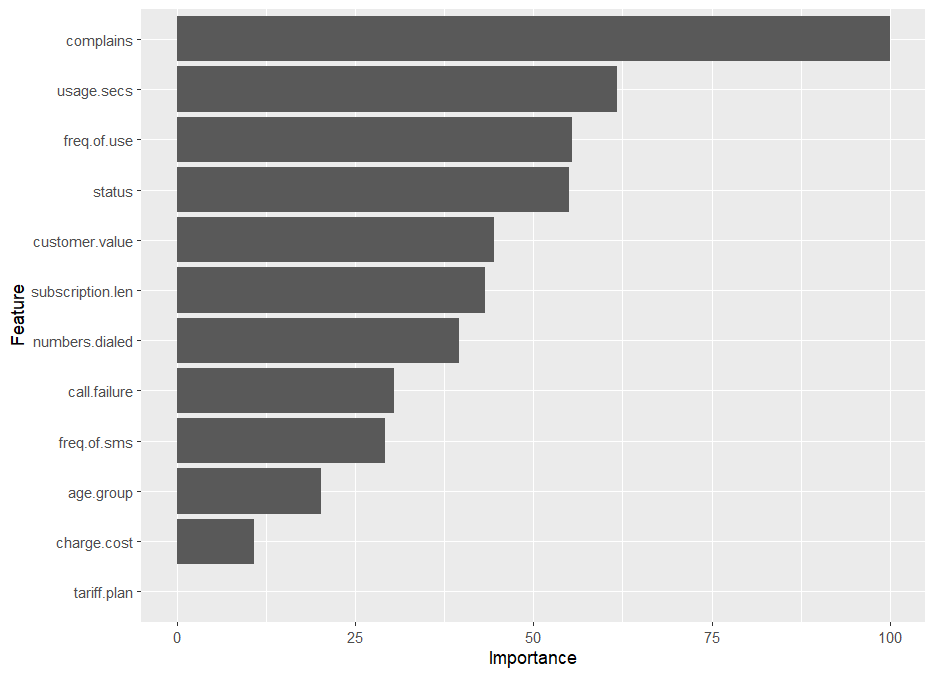
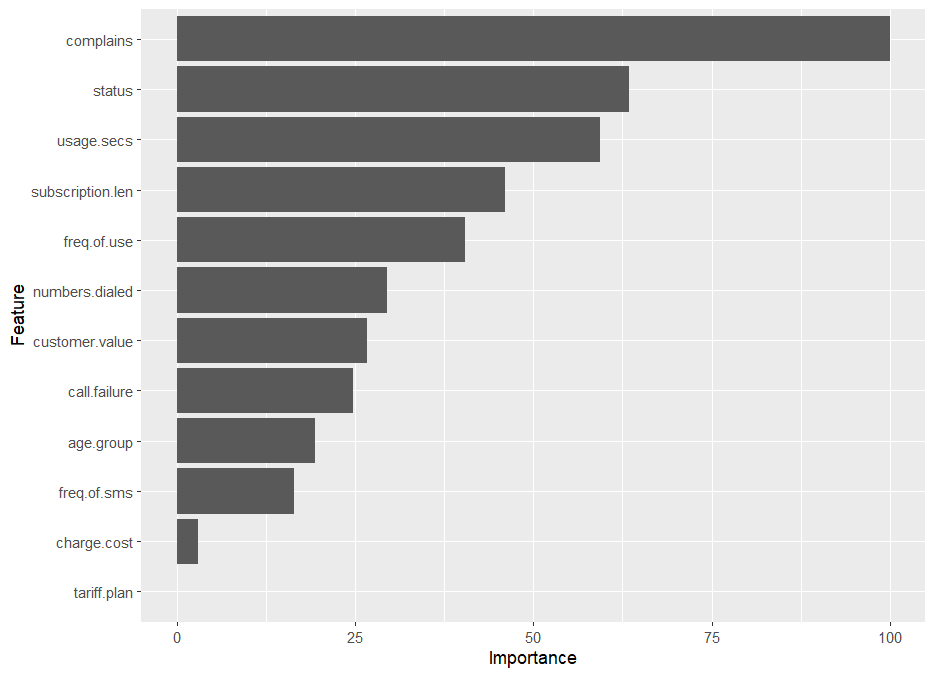
fourth commit - possibly final

diff --git a/README.md b/README.md
@@ -1,2 +1,147 @@
-# predicting-customer-churn
-This project is my first dive into the R programming language. I did some EDA and analysis on the possible reasons for customer churn.
+# Predicting-customer-churn project
+
+This project is my first dive into the R programming language. I did some EDA and analysis on the possible reasons for customer churn using dataset obtained from the [UCI website](https://archive.ics.uci.edu/dataset/563/iranian+churn+dataset). The dataset was obtained from an Iranian telecom company over the space of 12 months. All of the columns were collected over nine months excluding the target feature. See the hyperlink above for more information and background on the dataset.
+
+## Project aims/goals
+
+The aims of this project are as follows:
+
+1. Carry out extensive EDA on the dataset and extract business insights.
+2. Answer some premeditated questions regarding the data through the EDA process.
+3. Train and optimize an ML model for predicting customer churn.
+4. Identify the main features responsible for customer churn.
+
+## Data cleaning and EDA (PART 1)
+
+The dataset contains 3,150 rows and 13 features. The description of the features are presented below:
+- Call Failures: number of call failures
+- Complains: binary (0: No complaint, 1: complaint)
+- Subscription Length: total months of subscription
+- Charge Amount: Ordinal attribute (0: lowest amount, 9: highest amount)
+- Seconds of Use: total seconds of calls
+- Frequency of use: total number of calls
+- Frequency of SMS: total number of text messages
+- Distinct Called Numbers: total number of distinct phone calls 
+- Age Group: ordinal attribute (1: younger age, 5: older age)
+- Tariff Plan: binary (1: Pay as you go, 2: contractual)
+- Status: binary (1: active, 2: non-active)
+- Churn: binary (1: churn, 0: non-churn) - Class label
+- Customer Value: The calculated value of customer
+
+In the loaded dataframe, some of these features are categorical features disguised as numerical features. Two dataframes were created to distinguish both and used depending on the task. Data cleaning was carried out by renaming some of the column names for simplicity and compactness. Three columns (`[FN]`, `[FP]` and `[Age]`) were dropped because there was no information about them. The `[Age]` column was a categorical feature (instead of being a continuous variable). The data set had no missing values. In the `[data_exploration_analysis]` script, comprehensive EDA process and some statistical analysis were carried out. Using the data, I was able to find answers to the following questions:
+
+1. What could be the main causes of customer churn?
+2. What is the time interval for customers to churn?
+3. From insights generated from the EDA process, is it possible to discover how customers can be retained?
+4. What recommendations observed from the EDA process can avoid customer churn?
+5. What other insights and interesting information can be observed from the data?
+
+Bar charts were used to visualize the categorical features. Histograms were used to visualize the numerical features. Box plots were used to visualize and observe outliers. Scatter plots were used to observe the relationship between two numerical features and the target feature. Violin plots were used to observe the distribution of some numerical and categorical features. After an extensive and thorough analysis, the following were the answers obtained through the EDA process:
+
+1. What could be the main causes of customer churn?
+
+    Answer: The data points to three main features as the cause of customer churn:
+    - Complains (customers who have complains)
+    - Status (non-active customers have the highest churn) It seems mostly likely that the customer complains are not attended to. Many of customers that had complains churned. Also the most majority of customers churned because they were no longer active on the platform.
+    - It was also observed that customers on the "pay-as-you-go" tariff plan churned the most compared to those on a contract.
+
+<p float="left">
+    <img src="outputs/eda_bar_1.png" width="300" />
+    <img src="outputs/eda_bar_2.png" width="300" /> 
+    <img src="outputs/eda_bar_4.png" width="300" />
+</p>
+
+2. What is the time interval for customers to churn?
+
+    Answer: Customers begin to churn right from the time they subscribe to the network. The highest churn rate (almost 300 customers) was between 30 and 40 (units of measurement unknown).
+
+<img src="outputs/hist.png"
+     style="float: center; width: 500px; height: 400px;" />
+
+3. From insights generated from the EDA process, is it possible to discover how customers can be retained?
+
+    Answer: A major issue seems to be that the network is not attending to the complains of the customers. A large number of customers churn due to this.
+4. What recommendations observed from the EDA process can avoid customer churn?
+
+    Answer: The data reveals that most of the customers that churn are subscribed to the "pay-as-you-go" tariff plan. Probably make the contractual plan the gold standard by making the requirements for the "pay-as-you-go" plan very difficult. Or as an alternative, offer more incentives to those on the contract plan. Customers on the contractual plan rarely churn.
+5. What other insights and interesting information can be observed from the data?
+
+    - Customers that churned have less than 100 `[Frequency of Use]` and around 600 `[Seconds of Use]`.
+    - Customers that have `[Customer Value]` of 5000 and above almost never churn.
+    - Customers that churn are the young age, middle age and old age. The oldest and youngest age do not churn.
+<img src="outputs/eda_bar_3.png"
+     style="float: center; width: 500px; height: 400px;" />
+    - The network charges does not influence customers' decision to churn.
+    - The middle age are the largest age group in the dataset and they also have the highest churn rate.
+    - The majority of customers that churn have a long subscription with the network. There is something they are probably not happy about.
+
+For the sake of conciseness, the rest of the analysis can be observed from the R script. Some statistical analysis were also carried out by compraing the relevance of some features (`[Status]`, `[Complains]`, `[Tariff Plan]` and `[Customer Value]`) to the target label (`[Churn]`). Correlation between features were calculated and presented in the figure below
+
+<img src="outputs/corr_plot.png"
+     style="float: center; width: 600px; height: 450px;" />
+
+The bigger and greener the box, the stronger the positive correlation. The bigger and pinker the box, the stronger the negative correlation. The smaller the boxes, the weaker the correlation between the features. The correlation ranking of variables were also visualized
+
+<img src="outputs/correlations_ranked.png"
+     style="float: left; margin-right: 10px;" />
+
+The strongest cross-correlations was observed between `[Seconds of use]` and `[Frequency of use]`, `[Frequency of SMS]` and `[Customer Value]`. This seems to make some logical sense. The results also agrees with the previous correlation between features plot.
+
+The conclusion reached from the extensive EDA process was that the main features that influence customers churn are `[Status]`, `[Complains]` and `[Tariff Plan]`.
+
+## Model selection and evaluation (PART 2)
+
+Some further exploration was carried out before the modeling process started. Just to further observe the distribution of the categorical and numerical features in one shot
+
+<img src="outputs/cat_var.png"
+     style="float: left; margin-right: 8px;" />
+<img src="outputs/num_var.png"
+     style="float: left; margin-right: 8px;" />
+
+The outliers were treated by clipping them using the lower and upper quantiles. All was then set to split the dataset into the train test split using an 80% to 20% ratio respectively. Due to the imbalanced class in the target feature, the accuracy metric was not used. I instead used the ROC metric. A ten-fold cross validation technique was also used to mitigate the class imbalance. The model training was done by comparing different models performance. The compared models included Linear Discriminant Analysis (LDA), Classification and Regression Trees (CART), K-Nearest Neighbors (kNN), Support Vector Machines (SVM) and Random Forest (RF). The preferred model was the Random Forest classifier as it outperformed all the others. The feature importance obtained from the model also seems to agree with the initial EDA process
+
+<img src="outputs/feature_imp.png"
+     style="float: left; margin-right: 8px;" />
+
+The results from the model were $\text{ROC}=98.2\%$, $\text{Precision}=86.9\%$, $\text{Recall}=96.8\%$ and $\text{Accuracy}=95.2\%$. Next step was to optimize the preferred model by carrying out hyperparameter tuning of some hyperparameters. The optimized model was validated using the test data and the new metric scores are $\text{ROC}=98.6\%$, $\text{Precision}=83.8\%$, $\text{Recall}=97.3\%$ and $\text{Accuracy}=95.2\%$. The AUC score for the optimized model was obtained as $98.6\%$.
+
+The Receiver Operating Characteristic curve from the optimized model validation using the test dataset is visualized below:
+
+<img src="outputs/ROC_curve.png"
+     style="float: left; margin-right: 8px;" />
+
+The results obtained throughout the model training and optimization process is very questionable because no real-life data can have such a high evaluation metrics.
+
+### Key takeaways
+- Some of the reasons why I am suspicious of the high metrics is because the dataset contains some ambiguity in terms of the features that have no background information. There are also some concerns that the data might not be genuine real-life data.
+- The insights from the EDA process and the model process seems to be in agreement. They both agree that the `[Complains]` and `[Status]` are the main features influencing customers churn.
+- Some business recommendations will be that the company management should try to introduce requirements for the "pay-as-you-go" `[Tariff Plan]` quite difficult so customers opt for the "contractual" plan instead. Customers on this contract plan churn way lesser than those on the other plan.
+- The business management should improve their customer care representatives by sending them for more extensive training. And they must ensure that all complains are duly attended to.
+
+## Challenges 
+ - The information that accompanied the dataset was insufficient and many of the features had vague units. This makes the analysis quite difficult. For example, the `[Charge Cost]` was a categorical feature. For `[Subscription Length]`, it wasn't clear what the length was measuring. 
+
+## Future Goals
+- Find out ways to improve the accuracy of the models. Optimize the Decision Tree Classifier and see if the ROC-AUC curve will improve as it is the most unbiased model.
+- Develop a model within an ETL pipeline that will download live data from a Twitter API and make real-time predictions.
+
+### Repo structure
+
+```
+├── README.md           <-- Markdown file explaining the project's 
+|                              approach, methodology, and findings
+│
+├── Customer Churn.csv    <-- Original dataset used in preprocessing and
+|                             training the classification model
+│
+├── model_train.R   <-- Script used for training and optimizing the model
+│
+├── data_exploration_analysis.R     <-- Script used for extensive EDA 
+|                                        process and data cleaning
+│
+├── outputs            <-- Contains figures used in the README.md file
+│
+```
+
+
+> Please reach out to me if you have further ideas or suggestions to improve this project. I am also very much open to collaborating. **I am available through e-mail** drsamuelsurulere@gmail.com
